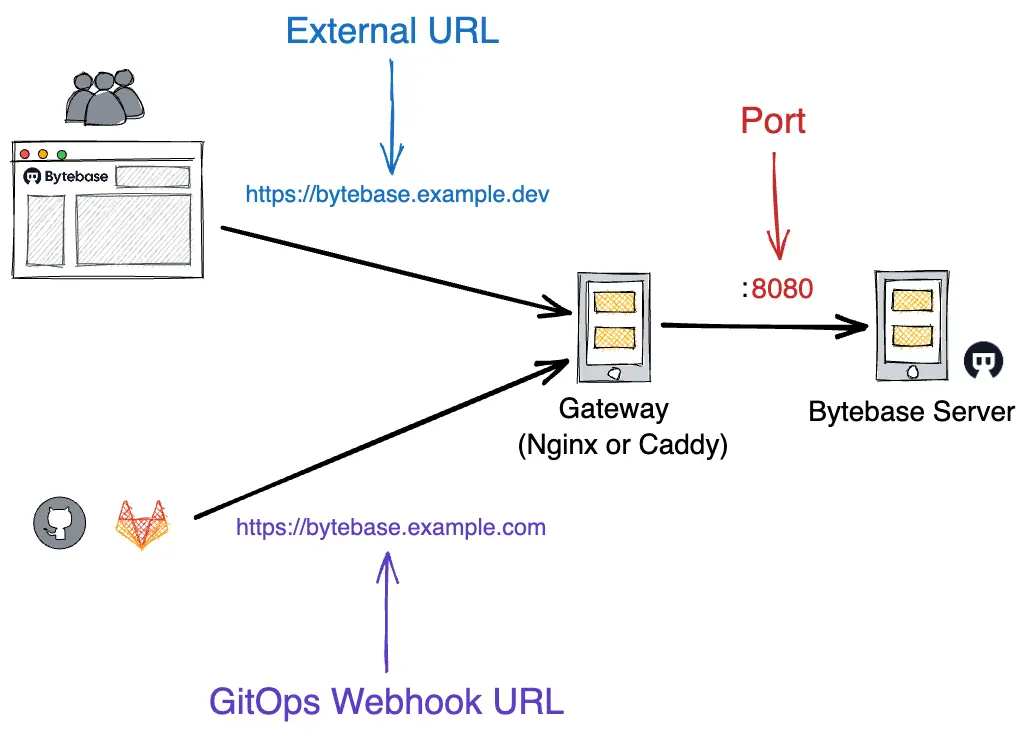
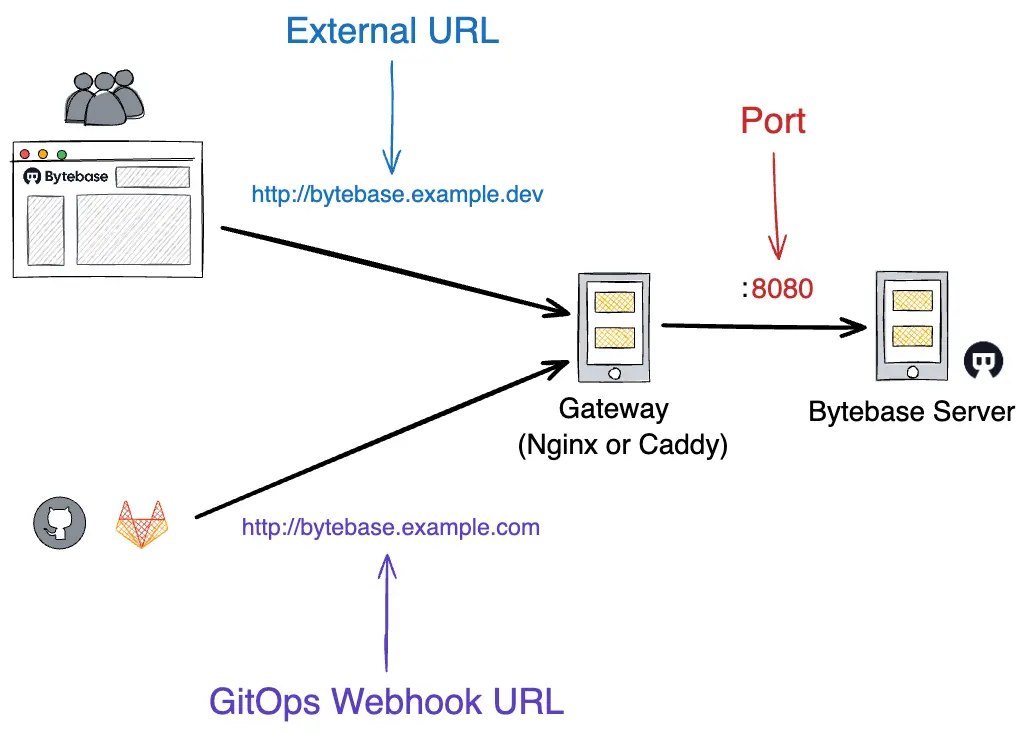
chore: use http instead of https for extermal url example
Otherwise, user will always get https error during onboarding

diff --git a/src/lib/api-blog.ts b/src/lib/api-blog.ts
@@ -55,7 +55,7 @@ const getBlogPostBySlug = (slug: string): BlogPost | null => {
 const getPostBySlug = (dir: string, slug: string): BlogPost | null => {
   try {
     const VERSION = fs.readFileSync('VERSION').toString();
-    const API_ENDPOINT = 'https://bytebase.example.com';
+    const API_ENDPOINT = 'http://bytebase.example.com';
     const filePath = path.join(dir, `${slug}.md`);
     const markdownWithMeta = fs.readFileSync(filePath, 'utf-8');
     const { content, data } = matter(markdownWithMeta);

diff --git a/src/lib/api-docs.ts b/src/lib/api-docs.ts
@@ -21,7 +21,7 @@ const getPostSlugs = (): string[] => {
 const getPostBySlug = (slug: string): { data: Record<string, any>; content: string } | null => {
   try {
     const VERSION = fs.readFileSync(`${process.cwd()}/VERSION`).toString();
-    const API_ENDPOINT = 'https://bytebase.example.com';
+    const API_ENDPOINT = 'http://bytebase.example.com';
     const source = fs.readFileSync(`${DOCS_DIR_PATH}/${slug}.md`);
     const { data, content } = matter(source);
 

diff --git a/content/docs/administration/sso/oidc.md b/content/docs/administration/sso/oidc.md
@@ -10,7 +10,7 @@ OpenID Connect (OIDC) is a simple identity layer on top of the OAuth 2.0 protoco
 
 1. Please make sure the [`--external-url`](/docs/get-started/install/external-url) is configured correctly for the Bytebase instance.
 
-   If your start Bytebase with `--external-url https://bytebase.example.com`, then your application redirect URL should be `https://bytebase.example.com/oidc/callback`.
+   If your start Bytebase with `--external-url http://bytebase.example.com`, then your application redirect URL should be `http://bytebase.example.com/oidc/callback`.
 
 2. If you're unsure about the **Issuer** of your IdP, you can always use the [OpenID Connect Discovery](https://openid.net/specs/openid-connect-discovery-1_0.html) endpoint to find the correct value, e.g. `https://acme.okta.com/.well-known/openid-configuration`.
 
@@ -18,9 +18,9 @@ OpenID Connect (OIDC) is a simple identity layer on top of the OAuth 2.0 protoco
 
 Basic information:
 
-* **Name**: the display name shown to your users (e.g. `Google` will be shown as `Sign in with Google`)
-* **Identity Provider ID**: a human-readable unique string, only lower-case alphabets and hyphens are allowed (e.g. `google`)
-* **Domain**: the domain name to scope associated users (e.g. `google.com`, optional)
+- **Name**: the display name shown to your users (e.g. `Google` will be shown as `Sign in with Google`)
+- **Identity Provider ID**: a human-readable unique string, only lower-case alphabets and hyphens are allowed (e.g. `google`)
+- **Domain**: the domain name to scope associated users (e.g. `google.com`, optional)
 
 Identity provider information:
 
@@ -30,9 +30,9 @@ Identity provider information:
 
 User information field mapping:
 
-* **Email**: the claims field to be used as the Bytebase user email address (e.g. `email`)
-* **Display name**: the claims field to be used as the Bytebase user display name (e.g. `name`, optional)
-* **Phone**: the claims field to be used as the Bytebase user phone number (e.g. `phone`, optional)
+- **Email**: the claims field to be used as the Bytebase user email address (e.g. `email`)
+- **Display name**: the claims field to be used as the Bytebase user display name (e.g. `name`, optional)
+- **Phone**: the claims field to be used as the Bytebase user phone number (e.g. `phone`, optional)
 
 ### Google
 

diff --git a/content/docs/administration/sso/oauth2.md b/content/docs/administration/sso/oauth2.md
@@ -14,9 +14,9 @@ In the creating SSO dialog, you need to fill following fields:
 
 ![oauth2-basic-information](/content/docs/administration/sso/oauth2-basic-information.webp)
 
-* **Name**: the display name shown to your users (e.g. `GitHub` will be shown as `Sign in with GitHub`)
-* **Identity Provider ID**: a human-readable unique string, only lower-case alphabets and hyphens are allowed (e.g. `github`)
-* **Domain**: the domain name to scope associated users (e.g. `github.com`, optional)
+- **Name**: the display name shown to your users (e.g. `GitHub` will be shown as `Sign in with GitHub`)
+- **Identity Provider ID**: a human-readable unique string, only lower-case alphabets and hyphens are allowed (e.g. `github`)
+- **Domain**: the domain name to scope associated users (e.g. `github.com`, optional)
 
 ### Identity provider information
 
@@ -45,6 +45,7 @@ The most important user field mapping is the identifier which is used to identif
 
 - **Email** is the field name of primary email in 3rd-party user info;
 - **DisplayName** is the field name of display name in 3rd-party user info (optional);
+
 * **Phone**: is the field name of phone number in 3rd-party user info (optional).
 
 ## Built-in OAuth Provider
@@ -53,7 +54,7 @@ The most important user field mapping is the identifier which is used to identif
 
 OAuth 2.0 usually requires an authorization callback url in the configuration. Please make sure the [--external-url](/docs/get-started/install/external-url) is set correctly.
 
-If you start Bytebase with `--external-url https://bytebase.example.com`, then the **authorization callback URL** will be `https://bytebase.example.com/oauth/callback`.
+If you start Bytebase with `--external-url http://bytebase.example.com`, then the **authorization callback URL** will be `http://bytebase.example.com/oauth/callback`.
 
 </HintBlock>
 

diff --git a/content/blog/global-variable-support-in-nuxt.md b/content/blog/global-variable-support-in-nuxt.md
@@ -65,7 +65,7 @@ In this way, we have registered it as a global component. Then we can use it in 
 ```markdown
 ...
 
-Run the following command to start Bytebase on [https://bytebase.example.com](https://bytebase.example.com/)
+Run the following command to start Bytebase on [http://bytebase.example.com](http://bytebase.example.com/)
 
 <pre>
 docker run --init \
@@ -76,7 +76,7 @@ docker run --init \
   --volume ~/.bytebase/data:/var/opt/bytebase \
   bytebase/bytebase:<version></version> \
   --data /var/opt/bytebase \
-  --host https://bytebase.example.com \
+  --host http://bytebase.example.com \
   --port 80
 </pre>
 
@@ -186,7 +186,7 @@ export default {
 In markdown files, insert the placeholder `$$bb_version$$` into where we are putting the version number.
 
 ````markdown
-Run the following command to start Bytebase on [https://bytebase.example.com](https://bytebase.example.com/)
+Run the following command to start Bytebase on [http://bytebase.example.com](http://bytebase.example.com/)
 
 ```text
 docker run --init \
@@ -197,7 +197,7 @@ docker run --init \
   --volume ~/.bytebase/data:/var/opt/bytebase \
   bytebase/bytebase:$$bb_version$$ \
   --data /var/opt/bytebase \
-  --host https://bytebase.example.com \
+  --host http://bytebase.example.com \
   --port 80
 ```
 ````

diff --git a/content/docs/get-started/self-host.md b/content/docs/get-started/self-host.md
@@ -116,7 +116,7 @@ docker run --init \
   --publish 80:8080 \
   --volume ~/.bytebase/data:/var/opt/bytebase bytebase/bytebase:%%bb_version%% \
   --data /var/opt/bytebase \
-  --external-url https://bytebase.example.com \
+  --external-url http://bytebase.example.com \
   --port 8080
 ```
 
@@ -163,7 +163,7 @@ spec:
               '--data',
               '/var/opt/bytebase',
               '--external-url',
-              'https://bytebase.example.com',
+              'http://bytebase.example.com',
               '--port',
               '8080',
             ]
@@ -249,7 +249,7 @@ For example:
 ```text
 helm -n bytebase \
 --set "bytebase.option.port"=443 \
---set "bytebase.option.external-url"="https://bytebase.example.com" \
+--set "bytebase.option.external-url"="http://bytebase.example.com" \
 --set "bytebase.option.externalPg.url"="postgresql://user:secret@foo.ap-east-1.rds.amazonaws.com/postgres" \
 --set "bytebase.version"=1.7.0 \
 install bytebase-release bytebase-repo/bytebase

diff --git a/content/docs/get-started/install/external-url.md b/content/docs/get-started/install/external-url.md
@@ -30,7 +30,7 @@ If internal network access is different than external (e.g. `bytebase.example.de
 
 <HintBlock type="info">
 
-If the exposed port is not 80 or 443, please include the port number in External URL / GitOps Webhook URL as well. e.g. Use https://bytebase.example.com:8080 instead of https://bytebase.example.com.
+If the exposed port is not 80 or 443, please include the port number in External URL / GitOps Webhook URL as well. e.g. Use http://bytebase.example.com:8080 instead of http://bytebase.example.com.
 
 </HintBlock>
 
